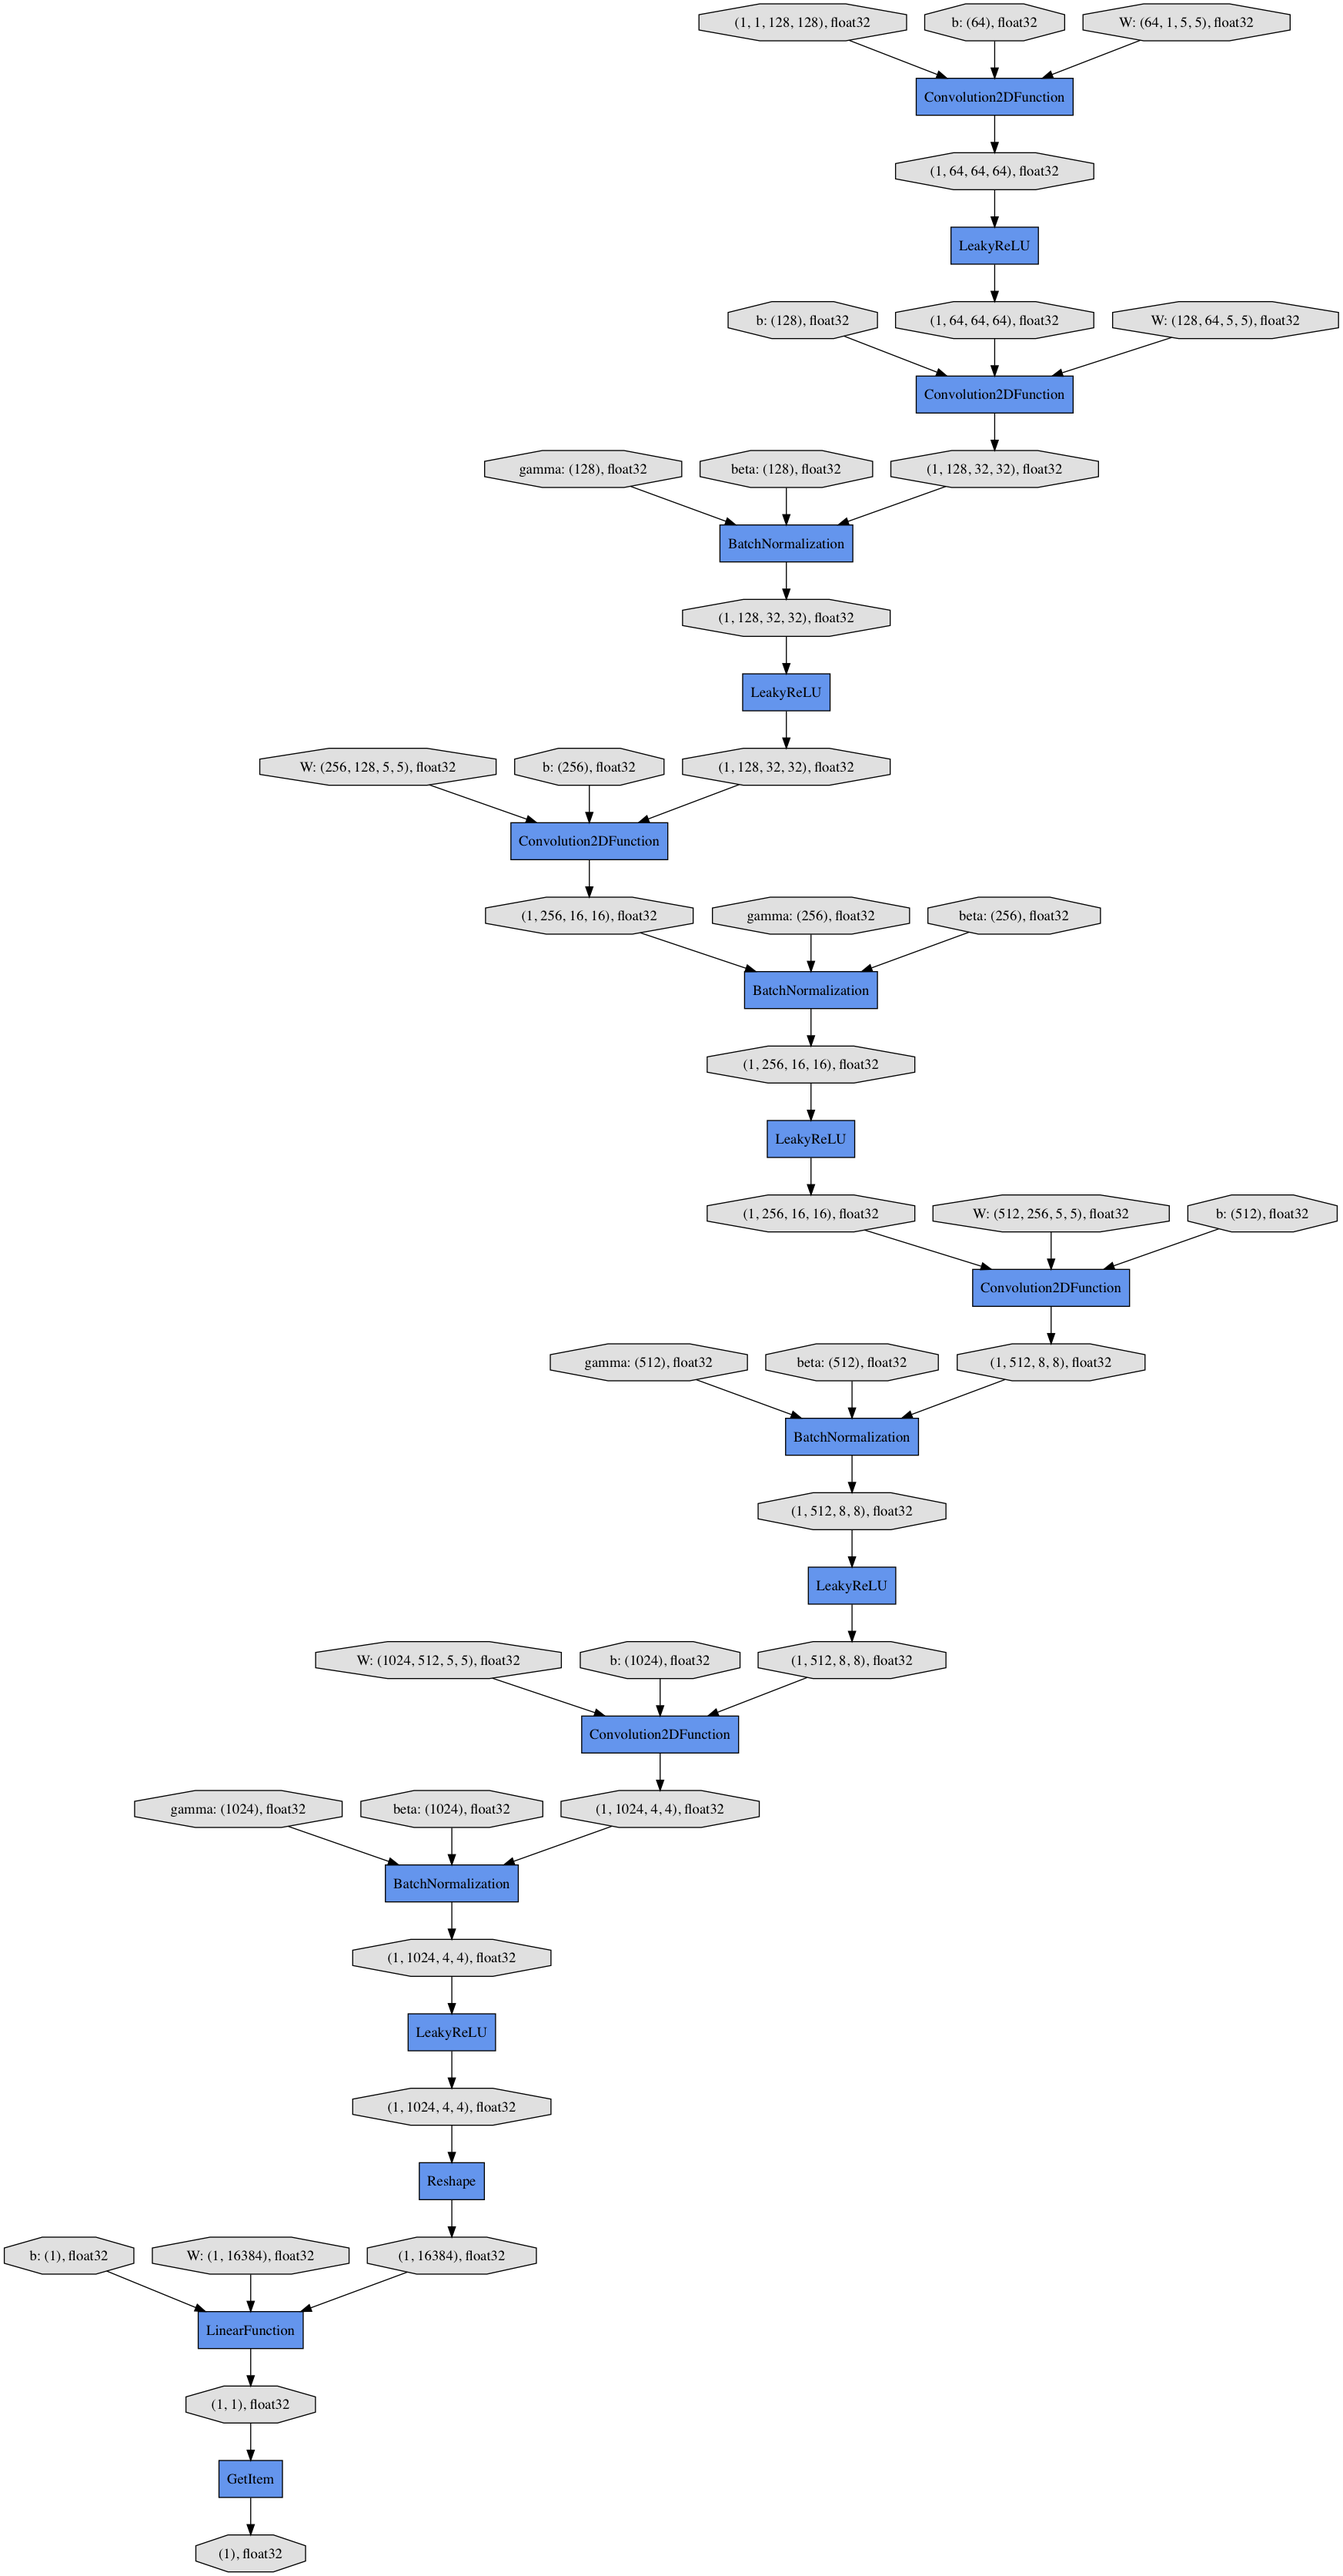
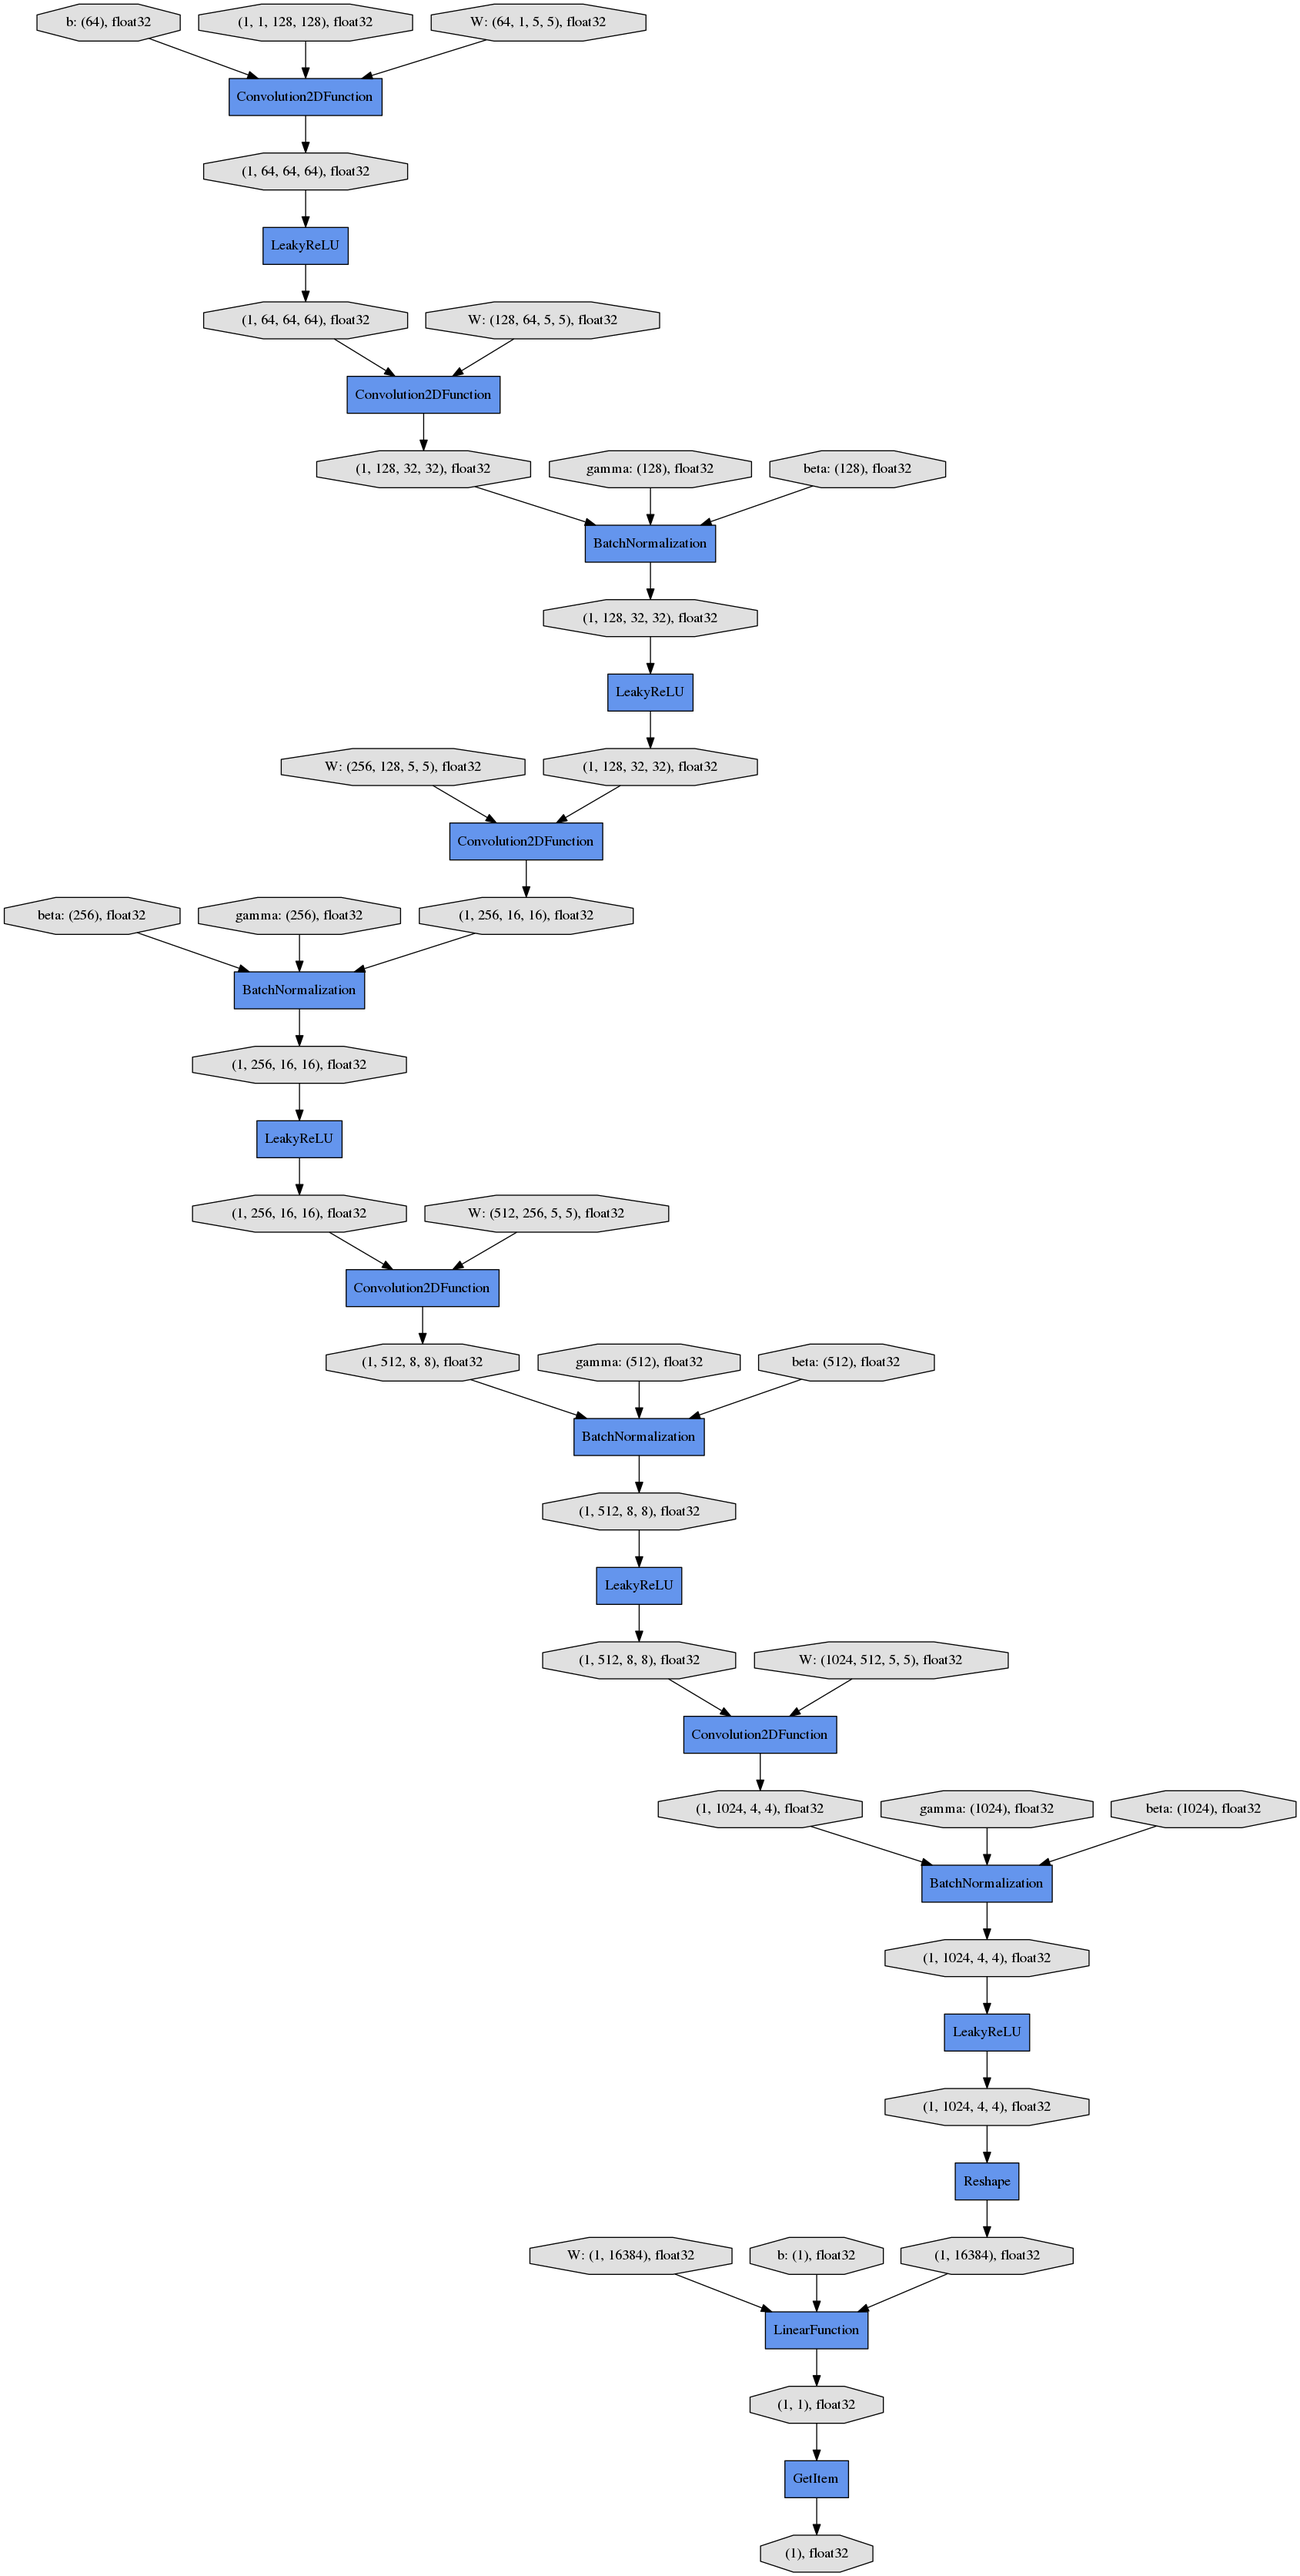
prepare experiments of 5-a,b

Changed region(s): [[0.0, 0.0, 1.0, 1.0], [0.8313, 0.0933, 1.0, 0.1555]]

diff --git a/train.py b/train.py
@@ -4,9 +4,8 @@ from chainer.training import extensions
 from chainer.datasets import ImageDataset
 from dataset import FaceData
 
-# from discriminator import Discriminator
-# from discriminator2 import Discriminator
-from discriminator3 import Discriminator
+from discriminator import Discriminator  # Dence nobias
+# from discriminator3 import Discriminator # GAP nobias
 from generator import Generator
 from updater import DCGANUpdater
 from visualize import out_generated_image
@@ -17,23 +16,22 @@ import pathlib
 def make_optimizer(model, alpha=0.0002, beta1=0.5):
     optimizer = chainer.optimizers.Adam(alpha=alpha, beta1=beta1)
     optimizer.setup(model)
-    optimizer.add_hook(
-        chainer.optimizer_hooks.WeightDecay(0.0001), 'hook_dec')
+    # optimizer.add_hook(chainer.optimizer_hooks.WeightDecay(0.0001), 'hook_dec')
     return optimizer
 
 
 def main():
+    seed = 0
     import numpy as np
-    np.random.seed(0)
+    np.random.seed(seed)
     import chainer
     if chainer.backends.cuda.available:
-        chainer.backends.cuda.cupy.random.seed(0)
-    gpu = 1
+        chainer.backends.cuda.cupy.random.seed(seed)
+    gpu = 0
     batch_size = 128
     n_hidden = 100
     epoch = 300
-    seed = 0
-    out = "result3_b"
+    out = "result5_a"  # cas of GAP
 
     print('GPU: {}'.format(gpu))
     print('# Minibatch-size: {}'.format(batch_size))

diff --git a/discriminator.py b/discriminator.py
@@ -24,6 +24,7 @@ class Discriminator(chainer.Chain):
                 ksize=5,
                 stride=2,
                 pad=2,
+                nobias=True,
                 initialW=w)  # (, 128, 64, 64)
             self.c2 = L.Convolution2D(
                 in_channels=None,
@@ -31,6 +32,7 @@ class Discriminator(chainer.Chain):
                 ksize=5,
                 stride=2,
                 pad=2,
+                nobias=True,
                 initialW=w)  # (, 256, 64, 64)
             self.c3 = L.Convolution2D(
                 in_channels=None,
@@ -38,6 +40,7 @@ class Discriminator(chainer.Chain):
                 ksize=5,
                 stride=2,
                 pad=2,
+                nobias=True,
                 initialW=w)  # (, 512, 64, 64)
             self.c4 = L.Convolution2D(
                 in_channels=None,
@@ -45,6 +48,7 @@ class Discriminator(chainer.Chain):
                 ksize=5,
                 stride=2,
                 pad=2,
+                nobias=True,
                 initialW=w)  # (, 1024, 64, 64)
             self.l5 = L.Linear(
                 in_size=None, out_size=1, initialW=w)

diff --git a/animation.py b/animation.py
@@ -5,7 +5,7 @@ import pathlib
 
 fig = plt.figure(figsize=(10, 10))
 
-path = pathlib.Path("result/preview")
+path = pathlib.Path("result3_b/preview")
 
 ims = []
 
@@ -13,8 +13,8 @@ for epoch in range(1, 101):
     img = cv2.imread(str(path / "image_{}epoch.png".format(epoch)))
     frame = plt.imshow(cv2.cvtColor(img, cv2.COLOR_BGR2RGB))
     ims.append([frame])
-ani = animation.ArtistAnimation(fig, ims, interval=500)
+ani = animation.ArtistAnimation(fig, ims, interval=250)
 # ani.save('anim.mp4', writer="ffmpeg")
 plt.axis("off")
-ani.save('anim.gif', writer="imagemagick")
+ani.save('anim3_b.gif', writer="imagemagick")
 plt.show()
